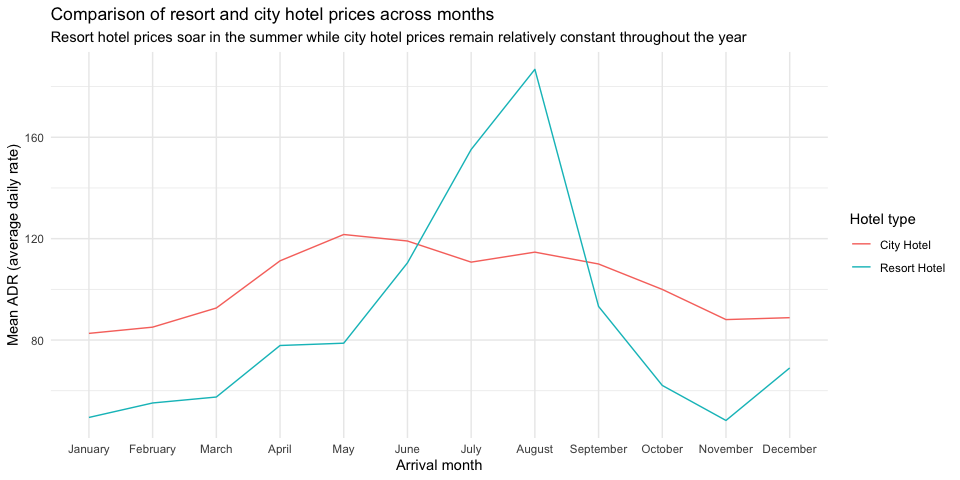
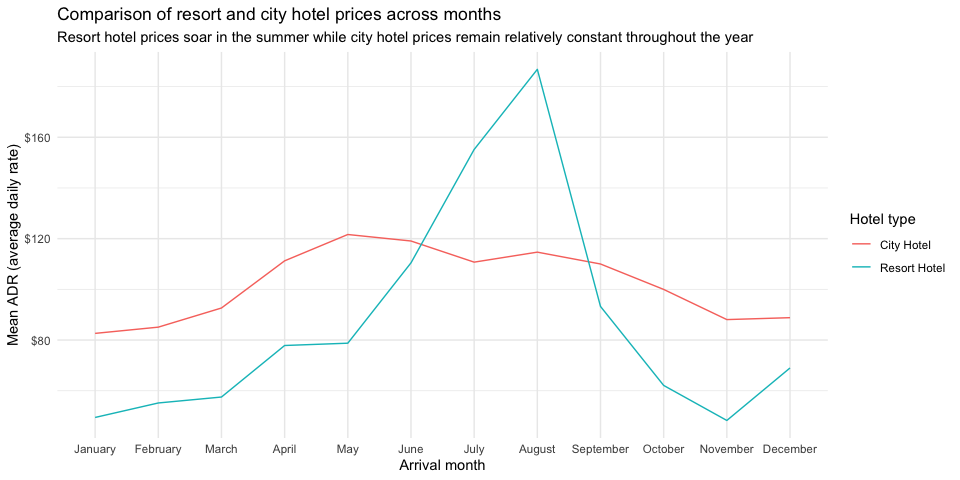
Name, date and exercise 1

diff --git a/hotels-forcats.md b/hotels-forcats.md
@@ -5,6 +5,7 @@ Naomi Ekas
 ``` r
 library(tidyverse)
 library(skimr)
+library(scales)
 ```
 
 ``` r
@@ -42,7 +43,8 @@ hotels %>%
        y = "Mean ADR (average daily rate)",
        title = "Comparison of resort and city hotel prices across months",
        subtitle = "Resort hotel prices soar in the summer while city hotel prices remain relatively constant throughout the year",
-       color = "Hotel type")
+       color = "Hotel type") +
+  scale_y_continuous(labels = label_dollar())
 ```
 
     ## `summarise()` has grouped output by 'hotel'. You can override using the
